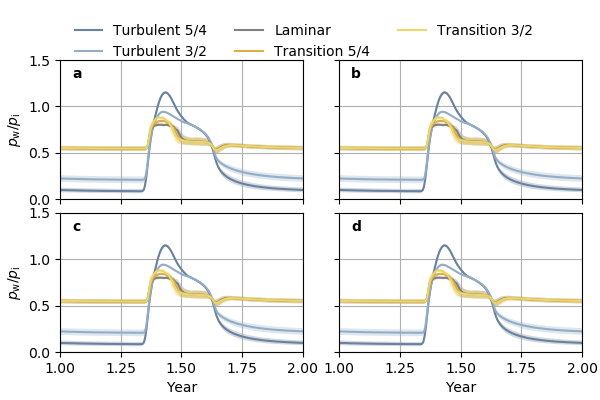
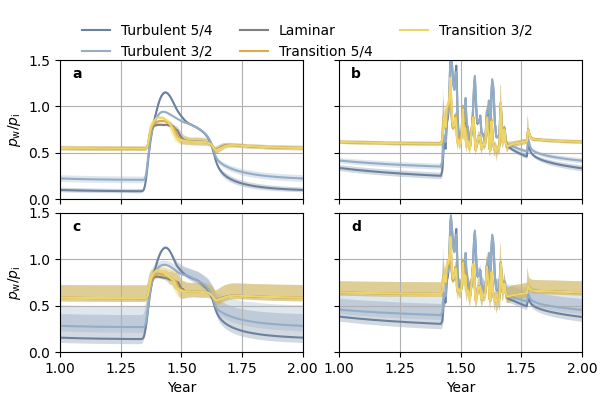
Grid fig

diff --git a/analysis/make_grid.py b/analysis/make_grid.py
@@ -10,15 +10,15 @@ from plot_pressure_grid import plot_pressure_grid
 
 ## Case 00: Flat topo, SHMIP forcing
 cases = [[1, 2, 3, 4, 5],
-         [1, 2, 3, 4, 5],
-         [1, 2, 3, 4, 5],
-         [1, 2, 3, 4, 5],
+         [101, 102, 104, 104, 105],
+         [201, 202, 203, 204, 205],
+         [101, 102, 104, 104, 105]
 ]
 
 patterns = ['../glads/_00_shmip_forcing_shmip_topo/RUN/output_%03d_seasonal.nc',
-            '../glads/_00_shmip_forcing_shmip_topo/RUN/output_%03d_seasonal.nc',
-            '../glads/_00_shmip_forcing_shmip_topo/RUN/output_%03d_seasonal.nc',
-            '../glads/_00_shmip_forcing_shmip_topo/RUN/output_%03d_seasonal.nc',
+            '../glads/01_kan_l_forcing_shmip_topo/RUN/output_%03d_seasonal.nc',
+            '../glads/02_shmip_forcing_synth_topo/RUN/output_%03d_seasonal.nc',
+            '../glads/03_kan_l_forcing_synth_topo/RUN/output_%03d_seasonal.nc',
 ]
 
 fnames = [[patterns[j] % cases[j][i] for i in range(5)] for j in range(4)]
